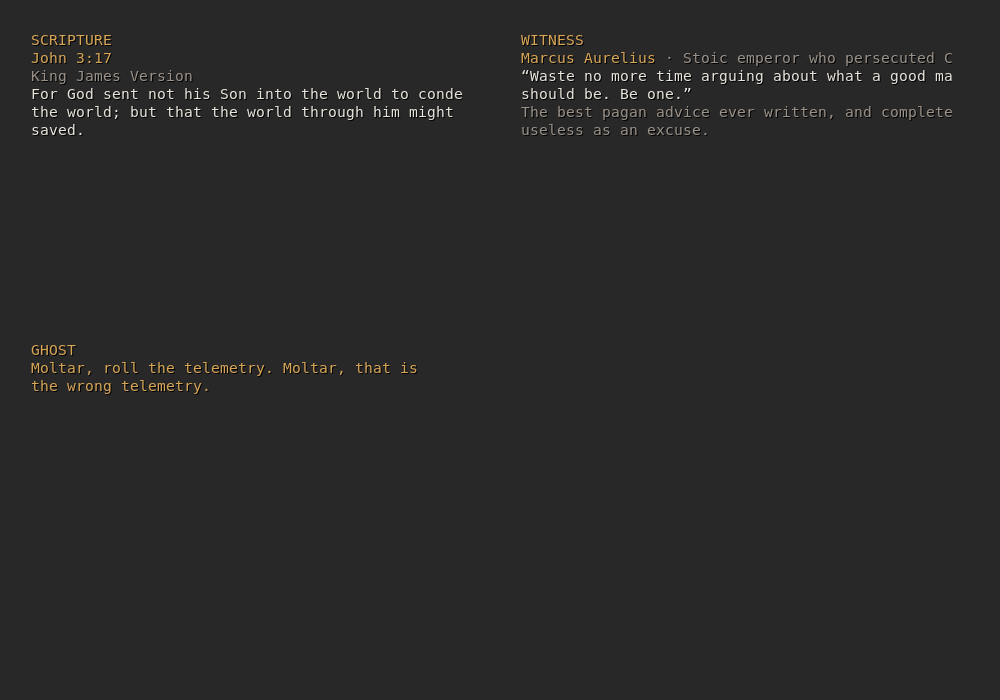
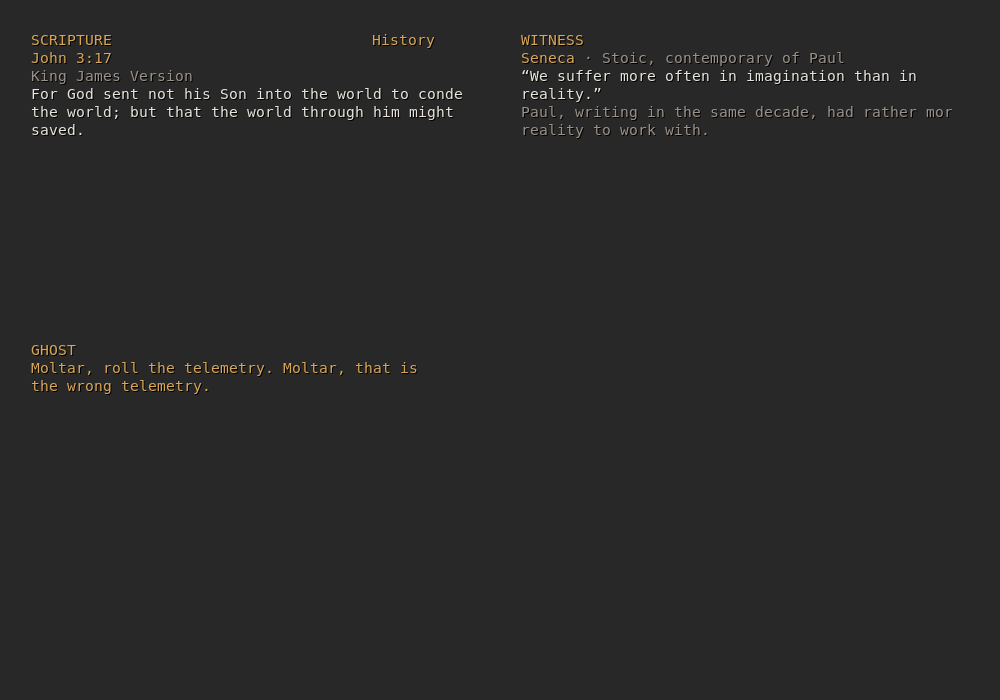
scripture: return to the earlier passage on right-click
Right-clicking the desktop Scripture card returns to the passage shown
before the current one; left-click still advances, the header History
link still opens the reader, and the other cards ignore right-clicks.
Each return is appended to the durable history as a manual-previous
entry that holds for an hour. Predecessors are derived from entry order
and reasons alone, so a return after Next goes back to where Next
started and repeated passages do not loop; no schema change, and no row
is edited or removed. `mbp-intel-scripture previous` exposes the same
action.

Validation: 9 Conky click tests and 20 history tests pass here and in
the live checkout, including an end-to-end right-click through the real
click helper. The live mapped 15-file batch passed 13 files; the two
failures are the pre-existing desktop-space hidden-fullscreen assertion
and the Scripture bar theme tests, which need the currently missing
spaceghost theme file. Native headless Sway evidence under
verification/conky-clicks records a real Wayland right-click returning
John 3:17 to John 3:16 in 1.32 s with only the Scripture card restarted.

Activated on the running desktop from the oldbook-named live checkout by
replacing only the Scripture card (`oldbook-scripture refresh scripture`,
PID 31094 -> 1555); the identical edits stay pending there until the
identity migration. Recovery: a left-click advances again, and the
reader's "Show this passage on desktop" or `history-use` restores any
saved entry.
[…]

Changed region(s): [[0.527, 0.06, 0.961, 0.21], [0.372, 0.03, 0.434, 0.06]]

diff --git a/alpine/tests/test_scripture_history.py b/alpine/tests/test_scripture_history.py
@@ -82,6 +82,38 @@ class HistoryTests(unittest.TestCase):
         self.assertEqual(len(set(identifiers)), 1)
         self.assertEqual(len(history.entries(self.database)), 2)
 
+    def test_return_walks_back_along_the_reading_path_without_editing_history(self):
+        history.select(passage(), self.database, now=100)
+        for number, now in ((2, 3700), (3, 7400)):
+            history.advance(lambda: passage(), lambda old, n=number: passage(n), self.database, now=now)
+        returned = history.retreat(self.database, now=7500)
+        self.assertEqual(returned['document']['reference'], 'John 1:2')
+        self.assertEqual((returned['reason'], returned['next_at']), ('manual-previous', 11100))
+        self.assertEqual(history.retreat(self.database, now=7600)['document']['reference'], 'John 1:1')
+        self.assertIsNone(history.retreat(self.database, now=7700))
+        forward = history.advance(lambda: passage(), lambda old: passage(2), self.database, now=7800, force=True)
+        self.assertEqual(forward['document']['reference'], 'John 1:2')
+        # A return after Next goes back to where Next started, not to the newest older row.
+        self.assertEqual(history.retreat(self.database, now=7900)['document']['reference'], 'John 1:1')
+        self.assertIsNone(history.retreat(self.database, now=8000))
+        rows = history.entries(self.database)
+        self.assertEqual([row['document']['reference'] for row in reversed(rows)],
+                         ['John 1:1', 'John 1:2', 'John 1:3', 'John 1:2', 'John 1:1', 'John 1:2', 'John 1:1'])
+        self.assertEqual(history.current(self.database)['id'], rows[0]['id'])
+        self.assertEqual(history.get(rows[-1]['id'], self.database)['document'], passage())
+
+    def test_return_passes_repeated_passages_without_looping(self):
+        for number, now in ((1, 100), (2, 200), (1, 300), (3, 400)):
+            history.select(passage(number), self.database, now=now)
+        references = []
+        while len(references) < 10:
+            returned = history.retreat(self.database, now=500 + len(references))
+            if returned is None:
+                break
+            references.append(returned['document']['reference'])
+        self.assertEqual(references, ['John 1:1', 'John 1:2', 'John 1:1'])
+        self.assertEqual(len(history.entries(self.database)), 7)
+
     def test_history_navigation_preserves_notes_and_full_text(self):
         first = history.select(passage(), self.database, now=1)
         second = history.select(passage(2), self.database, now=2)
@@ -187,6 +219,23 @@ class CommandHistoryTests(unittest.TestCase):
         with patch.object(history.time, 'time', return_value=3700):
             self.assertEqual(self.helper.next_selection(self.bible), 'John 1:2')
         self.assertEqual(len(history.entries()), 2)
+
+    def test_previous_returns_to_the_earlier_passage_and_refreshes_only_then(self):
+        with patch.object(history.time, 'time', return_value=100):
+            self.helper.select_reference(self.bible, 'John 1:1')
+        with patch.object(history.time, 'time', return_value=200):
+            self.assertEqual(self.helper.next_selection(self.bible), 'John 1:2')
+        self.refresh.reset_mock()
+        with patch.object(history.time, 'time', return_value=300):
+            self.assertEqual(self.helper.previous_selection(self.bible), 'John 1:1')
+        self.refresh.assert_called_once_with()
+        selection = json.loads(self.helper.SELECTION.read_text())
+        self.assertEqual((selection['reference'], selection['next_at']), ('John 1:1', 3900))
+        self.assertEqual(len(history.entries()), 3)
+        with patch.object(history.time, 'time', return_value=400):
+            self.assertIsNone(self.helper.previous_selection(self.bible))
+        self.refresh.assert_called_once_with()
+        self.assertEqual(len(history.entries()), 3)
 
     def test_clock_refreshes_only_due_card_independently_of_conky_cache(self):
         with patch.object(history.time, 'time', return_value=100):

diff --git a/alpine/tests/test_conky_clicks.py b/alpine/tests/test_conky_clicks.py
@@ -73,7 +73,9 @@ class ClickCommandsTests(unittest.TestCase):
         script.write_text('conky_config = "/tmp/scripture.conf"\n'
                           + f'dofile({json.dumps(str(hook))})\n'
                           + '''assert(conky_mbp_intel_click({type='mouse_move'}) == false)
+conky_config = '/tmp/witness.conf'
 assert(conky_mbp_intel_click({type='button_down',button='right'}) == false)
+conky_config = '/tmp/scripture.conf'
 assert(conky_mbp_intel_click({type='button_up',button='left'}) == false)
 assert(conky_mbp_intel_click({type='button_down',button='left'}) == true)
 conky_config = '/tmp/power.conf'
@@ -86,6 +88,29 @@ assert(conky_mbp_intel_click({type='button_down',button='left'}) == false)
         while time.monotonic() < deadline and self.selection()['reference'] == 'John 3:16':
             time.sleep(.1)
         self.assertEqual(self.selection()['reference'], 'John 3:17')
+
+    def test_right_click_returns_to_the_passage_shown_before(self):
+        target = self.home / '.local/bin/mbp-intel-conky-click'
+        target.parent.mkdir(parents=True)
+        target.symlink_to(BIN / 'mbp-intel-conky-click')
+        hook = REPO / 'alpine/desktop/.local/lib/mbp_intel/conky_click.lua'
+        self.command('mbp-intel-scripture', 'select', 'John 3:16')
+        self.command('mbp-intel-scripture', 'next')
+        self.assertEqual(self.selection()['reference'], 'John 3:17')
+        script = self.home / 'return.lua'
+        script.write_text('conky_config = "/tmp/scripture.conf"\n'
+                          + f'dofile({json.dumps(str(hook))})\n'
+                          + "assert(conky_mbp_intel_click({type='button_down',button='right',x=60,y=50}) == true)\n")
+        result = subprocess.run(['lua', str(script)], env=self.env,
+                                capture_output=True, text=True, timeout=10)
+        self.assertEqual(result.returncode, 0, result.stderr)
+        deadline = time.monotonic() + 10
+        while time.monotonic() < deadline and self.selection()['reference'] != 'John 3:16':
+            time.sleep(.1)
+        self.assertEqual(self.selection()['reference'], 'John 3:16')
+        listing = self.command('mbp-intel-scripture', 'history-list').splitlines()
+        self.assertEqual([line.split('\t')[2] for line in reversed(listing)],
+                         ['John 3:16', 'John 3:17', 'John 3:16'])
 
     def test_disabled_desktop_does_not_advance_from_stale_click(self):
         selection = self.home / '.local/state/mbp-intel/scripture/selection.json'
@@ -133,6 +158,17 @@ click(348, 0, 'scripture%-history')
 click(419, 17, 'scripture%-history')
 click(390, 18, 'scripture')
 assert(#commands == 7)
+local function press_right(x, y)
+    assert(conky_mbp_intel_click({type='button_down', button='right', x=x, y=y}))
+    assert(commands[#commands]:match('mbp%-intel%-conky%-click" scripture%-previous >'),
+           'Right-click at ' .. x .. ',' .. y .. ' did not return: ' .. commands[#commands])
+end
+press_right(390, 8)
+press_right(30, 40)
+assert(#commands == 9)
+conky_config = '/tmp/witness.conf'
+assert(conky_mbp_intel_click({type='button_down', button='right', x=30, y=40}) == false)
+assert(#commands == 9)
 ''')
         result = subprocess.run(['lua', str(script)], env=self.env,
                                 capture_output=True, text=True, timeout=10)

diff --git a/alpine/tests/verify_conky_clicks.py b/alpine/tests/verify_conky_clicks.py
@@ -183,11 +183,11 @@ def verify():
                     pointer.stdin.flush()
                     assert pointer.stdout.readline().strip() == 'ok'
 
-                def click(x, y):
+                def click(x, y, button=272):
                     event(f'move {round(x * 800 / 1000)} {round(y * 600 / 700)}')
                     time.sleep(.15)
-                    event('press 272')
-                    event('release 272')
+                    event(f'press {button}')
+                    event(f'release {button}')
 
                 def current_pids():
                     return json.loads((state / 'pids.json').read_text())
@@ -228,6 +228,28 @@ def verify():
                 command('grim', str(OUTPUT / 'after.png'))
                 assert (OUTPUT / 'before.png').read_bytes() != (OUTPUT / 'after.png').read_bytes()
 
+                # A native right-click on the Scripture card returns to the passage shown before it.
+                identifier, x, y, _ = panels[0]
+
+                def scripture_pixels():
+                    return subprocess.check_output(['grim', '-g', f'{x},{y} 430x250', '-'], env=env)
+
+                before = current_pids()
+                before_pixels = scripture_pixels()
+                started = time.monotonic()
+                click(x + 60, y + 50, button=273)
+                after = wait_for(lambda: (now if (now := current_pids())[identifier]
+                                          != before[identifier] else None),
+                                 'scripture did not react to its native right-click')
+                assert all(after[key] == before[key] for key in before if key != identifier)
+                wait_for(click_complete, 'scripture right-click did not finish replacing its card')
+                wait_for(lambda: scripture_pixels() != before_pixels,
+                         'scripture did not draw the returned passage')
+                durations['scripture-right-click'] = round(time.monotonic() - started, 2)
+                returned = json.loads((home / '.local/state/mbp-intel/scripture/selection.json').read_text())
+                assert returned['reference'] == 'John 3:16', returned['reference']
+                command('grim', str(OUTPUT / 'returned.png'))
+
                 marker = root / 'application-click'
                 app = spawn([sys.executable, __file__, 'cover', str(marker)])
                 wait_for(lambda: 'Conky click cover' in command('swaymsg', '-r', '-t', 'get_tree'),
@@ -246,6 +268,7 @@ def verify():
                 report = {'native_wayland_clicks': durations, 'only_clicked_card_restarted': True,
                           'each_clicked_card_redrawn': True,
                           'selected_reference': selected['reference'],
+                          'right_click_returned_reference': returned['reference'],
                           'tiled_and_floating_application_input': True,
                           'periodic_seconds': {'display': 60, 'scripture': 60, 'witness': 300, 'journal': 240}}
                 (OUTPUT / 'native.json').write_text(json.dumps(report, indent=2) + '\n')

diff --git a/alpine/desktop/.local/lib/mbp_intel/scripture_history.py b/alpine/desktop/.local/lib/mbp_intel/scripture_history.py
@@ -15,6 +15,7 @@ import time
 
 APPLICATION_ID = 0x4F425348
 INTERVAL = 3600
+RETURN_REASON = 'manual-previous'
 
 
 def database_path():
@@ -138,6 +139,44 @@ def advance(initial, following, database=None, now=None, force=False):
             result = _select(db, following(previous['document']), 'manual-next' if force else 'hourly', now)
         else:
             result = previous
+        db.execute('COMMIT')
+        return result
+
+
+def _predecessors(db):
+    """Map each entry to the one displayed before it along its own path.
+
+    Selections are appended while their predecessor is current, so an ordinary
+    entry follows the entry just below it. A return reproduces the entry before
+    the one it was reached from, so it inherits that entry's predecessor. The
+    path comes from entry order and reasons alone; no row is ever edited.
+    """
+    before, previous = {}, None
+    for identifier, reason in db.execute('SELECT id, reason FROM entries ORDER BY id'):
+        target = previous
+        if reason == RETURN_REASON and previous is not None:
+            reproduced = before.get(previous)
+            target = before.get(reproduced) if reproduced is not None else None
+        before[identifier] = target
+        previous = identifier
+    return before
+
+
+def retreat(database=None, now=None):
+    """Return to the entry displayed before the current one, as a new selection.
+
+    The earlier snapshot is reproduced rather than edited and holds for an hour
+    like any manual choice. Returns None when nothing earlier exists.
+    """
+    now = instant(now)
+    with connect(database) as db:
+        db.execute('BEGIN IMMEDIATE')
+        previous = _current(db)
+        target = _predecessors(db).get(previous['id']) if previous else None
+        result = None
+        if target is not None:
+            entry = record(db.execute('SELECT * FROM entries WHERE id=?', (target,)).fetchone())
+            result = _select(db, entry['document'], RETURN_REASON, now)
         db.execute('COMMIT')
         return result
 

diff --git a/alpine/PROGRESS.md b/alpine/PROGRESS.md
@@ -1005,3 +1005,30 @@ stale-symlink removal, `install-desktop-system`, a package rebuild and a
 firewall reactivation. That would restart the compositor under live agent
 sessions, so it is left for an authorized migration. No native, visual or
 physical verification is claimed for this check-in.
+
+## Scripture right-click returns to the earlier passage — 2026-09-08
+
+- Right-clicking the desktop Scripture card now returns to the passage shown
+  before the current one. Left-click still advances, the header History link
+  still opens the reader, and the other cards ignore right-clicks.
+- Returns follow the reader's own path rather than raw entry order: each return
+  is appended to the durable history as a `manual-previous` entry that holds
+  for an hour, and every entry's predecessor is derived from entry order and
+  reasons alone. A return after Next goes back to where Next started, and
+  returning past a repeated passage does not loop. No schema change and no row
+  edited or removed; `mbp-intel-scripture previous` exposes the same action.
+- Validation: 9 Conky click tests and 20 history tests pass, including Lua
+  dispatch checks and an end-to-end right-click through the real click helper.
+  The mapped 15-file batch passed 13 files; the two failures are unrelated and
+  pre-existing in the live checkout (the desktop-space hidden-fullscreen
+  assertion, and the Scripture bar theme tests, which need the currently
+  missing `alpine/themes/spaceghost.json`). Native headless Sway evidence in
+  `verification/conky-clicks/` records a real Wayland right-click returning
+  John 3:17 to John 3:16 in 1.32 s with only the Scripture card restarted
+  (`returned.png`, `native.json`, `README.md`).
+- Activated live from the running `oldbook`-named checkout by replacing only
+  the Scripture card through `oldbook-scripture refresh scripture`
+  (PID 31094 → 1555); the layout and the other cards were untouched. This
+  check-in carries the identical change under the renamed helpers.
+- Not verified: a physical right-click on the live seat (only the private
+  headless seat was driven) and a physical hour of rotation after a return.

diff --git a/alpine/FEATURES.md b/alpine/FEATURES.md
@@ -398,7 +398,8 @@ native reading-card click actions; Scripture search may adapt to free space.
 - Implementation: [runtime policy](desktop/.local/lib/mbp_intel/conky_policy.py),
   [layout](desktop/.local/lib/mbp_intel/conky_layout.py), [panels](desktop/.config/conky/panels.json).
 - Checks: [policy](tests/test_conky_policy.py), [layout](tests/test_conky_layout.py),
-  [clicks](tests/test_conky_clicks.py), [desktop space](tests/test_desktop_space.py).
+  [clicks](tests/test_conky_clicks.py), [desktop space](tests/test_desktop_space.py),
+  [native click evidence](verification/conky-clicks/README.md).
   [Persistent requirements](AGENTS.md) apply to every theme and rebuild.
 
 ### JOURNAL
@@ -428,8 +429,14 @@ History is a clickable text link on the Scripture header line, in the active
 card font and accent color. It opens saved reading without advancing the passage;
 the passage itself keeps its click-to-advance action. This supersedes the separate
 History button beside the desktop search bar.
+Right-click on the Scripture card returns to the passage shown before the current
+one, one step per click along the reader's own path: a return after Next goes
+back to where Next started, and returning past a repeated passage does not loop.
+Each return is appended to history as a new hour-long selection; no saved entry
+is edited or removed. Other cards ignore right-clicks.
 
 - Implementation: [Scripture modules](desktop/.local/lib/mbp_intel/scripture.py),
+  [card clicks](desktop/.local/lib/mbp_intel/conky_click.lua),
   [history](desktop/.local/lib/mbp_intel/scripture_history.py),
   [generation](desktop/.local/lib/mbp_intel/scripture_generation.py).
 - Checks: [selection](tests/test_scripture_selection.py), [history](tests/test_scripture_history.py),

diff --git a/alpine/verification/conky-clicks/README.md b/alpine/verification/conky-clicks/README.md
@@ -1,0 +1,15 @@
+# Native Conky card clicks
+
+`alpine/tests/verify_conky_clicks.py` drives a private headless Sway seat with
+real Wayland pointer events against the Scripture, Witness and journal cards.
+
+- `before.png`, `after.png`: the desktop before and after one left-click on each
+  card; only the clicked card's Conky process is replaced and redrawn.
+- `returned.png`: after a right-click on the Scripture card, which returned the
+  passage from John 3:17 to John 3:16 (`right_click_returned_reference`).
+- `floating-cover.png`: tiled and floating application windows keep their own
+  input above the cards.
+- `native.json`: timings and outcomes of the latest run; `native.log`: client output.
+
+Rerun from the checkout root: `python3 alpine/tests/verify_conky_clicks.py`.
+It writes here, needs sway, conky and grim, and never touches the live desktop.

diff --git a/alpine/AGENTS.md b/alpine/AGENTS.md
@@ -88,8 +88,9 @@ separate personal desktop journal in this published study collection.
 Keep Conky placement stable through window, focus and fullscreen changes; the
 user prefers no automatic reflow to abrupt motion or continuous CPU work.
 Use fixed caption clearance when laying out cards, favor useful lower-right
-space, and preserve native click-to-advance on the reading cards. Scripture
-search may adapt to free/occupied edges and must follow the active theme.
+space, and preserve native click-to-advance on the reading cards and
+right-click-to-return on the Scripture card. Scripture search may adapt to
+free/occupied edges and must follow the active theme.
 
 Scripture cards must read continuously: passage and source citation, reflection,
 then practice. Do not insert a separate speaker/“who said” or duplicate title
